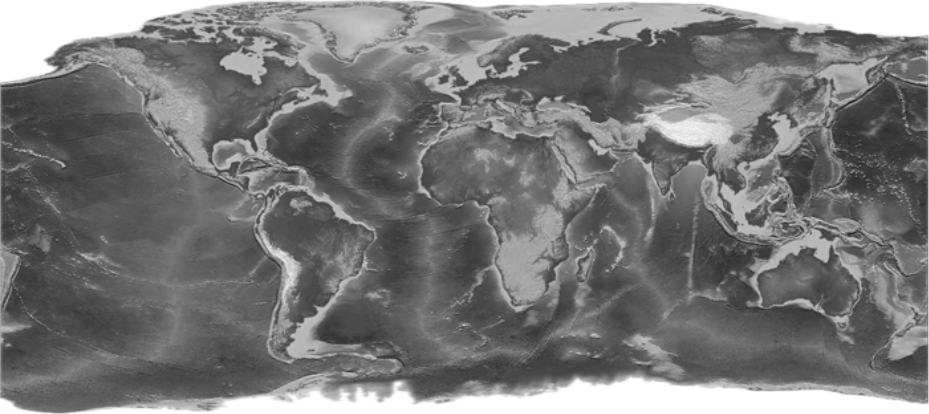
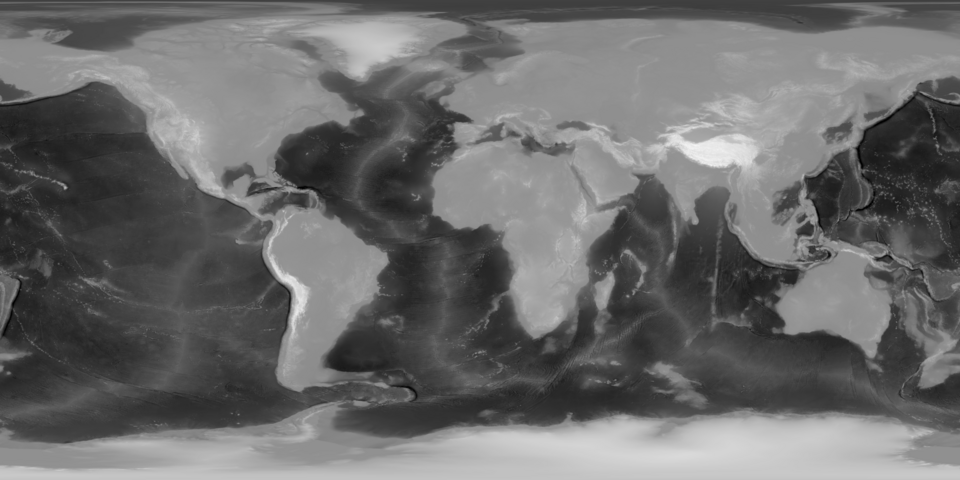
Replace Earth shaded-relief map with a faithful grayscale heightmap
The bundled Earth image now tracks ETOPO1 elevation+bathymetry (rank
correlation 0.995, land/water agreement 94%), so image-mode matching
uses the same lightest=highest / darkest=lowest scale as Moon and Mars.

diff --git a/terrain_bot/static/index.html b/terrain_bot/static/index.html
@@ -377,7 +377,7 @@ function renderValidation() {
         <span>typical error</span><span>${fmtM(c.median_abs_error_m)} median, ${fmtM(c.rmse_m)} RMS, bias ${c.bias_m >= 0 ? "+" : ""}${fmtM(c.bias_m)}</span>
         ${lw}
       </div>`;
-  }).join("") + `<p class="note">Each image is compared pixel by pixel with the measured data. The Earth image is a shaded-relief picture, so brightness isn't height. The Mars image is clipped at both ends, so everything above about +7 km (Olympus and the Tharsis volcanoes) is pure white. That breaks a straight lowest-to-highest scale, but the fitted curve handles it.</p>`;
+  }).join("") + `<p class="note">Each image is compared pixel by pixel with the measured data. Earth and Moon are faithful elevation maps (lightest = highest, darkest = lowest). The Mars image is clipped at both ends, so everything above about +7 km (Olympus and the Tharsis volcanoes) is pure white. That breaks a straight lowest-to-highest scale, but the fitted curve handles it.</p>`;
 }
 
 async function init() {

diff --git a/tests/test_terrain_bot.py b/tests/test_terrain_bot.py
@@ -195,8 +195,11 @@ def test_real_dem_data():
     assert moon.elevation_at(5.41, -158.63) > 10000  # Selenean summit
     assert moon.elevation_at(-70.36, -172.49) < -8000  # Antoniadi crater
 
-    comparison = dem.compare_to_dem(load_heightmap(DATA / "moon_heightmap.png", MOON), moon)
-    assert comparison["spearman"] > 0.95
+    moon_cmp = dem.compare_to_dem(load_heightmap(DATA / "moon_heightmap.png", MOON), moon)
+    assert moon_cmp["spearman"] > 0.95
+    earth_cmp = dem.compare_to_dem(load_heightmap(DATA / "earth_heightmap.png", EARTH), earth)
+    assert earth_cmp["spearman"] > 0.95
+    assert earth_cmp["land_water_agreement"] > 0.9
 
 
 @pytest.mark.skipif(not dem.dem_available("mars"), reason="Mars DEM not downloaded")

diff --git a/terrain_bot/dem.py b/terrain_bot/dem.py
@@ -156,7 +156,7 @@ def fit_image_to_dem(image_hm: Heightmap, dem_hm: Heightmap) -> Heightmap:
     For every brightness level the median measured elevation of the pixels with
     that brightness is taken, then the curve is forced to rise with brightness.
     This undoes clipping and non-linear encodings, but cannot fix an image whose
-    brightness isn't height (shaded relief).
+    brightness is unrelated to height (for example shaded relief).
     """
     rows, cols = np.nonzero(image_hm.valid)
     gray = np.round(image_hm.gray[rows, cols])

diff --git a/README.md b/README.md
@@ -24,15 +24,16 @@ Each calibrated image is compared pixel by pixel with the real data at the same 
 |---|---|---|---|---|
 | Moon | **0.989** | 400 m | **125 m** | faithful elevation map |
 | Mars | **0.980** | 5,533 m | **120 m** | clipped: brightness 255 covers everything above about +7 km and 0 covers everything below about -6.4 km |
-| Earth | 0.670 | 1,517 m | 401 m | shaded relief; land/water agrees on only 72% |
+| Earth | **0.995** | 1,202 m | **54 m** | faithful elevation + bathymetry map; land/water agrees on 94% (98% after fit) |
 
 The Moon image is a faithful elevation map: its lightest pixel is 13 km from the real Selenean
 summit. The Mars image has the right geography but saturates at both ends, so Olympus Mons is as
 white as the Tharsis plains. The straight Olympus-to-Hellas scale therefore reads about 5 km too
-high, but the fitted curve fixes that except in the clipped areas, which the steps flag. The Earth image is a shaded-relief picture, so brightness isn't height. Lowlands like the
-Amazon are as dark as abyssal plains, and continental shelves are as bright as hills. No
-brightness-to-height curve can fix that, which is why measured data is the default. The image's
-bounds (84 N to 77 S) were fitted against ETOPO1 and stored in `data/earth_heightmap.json`.
+high, but the fitted curve fixes that except in the clipped areas, which the steps flag. The Earth
+image is a full-globe grayscale heightmap (lightest = highest, darkest = deepest ocean), so the
+linear Everest-to-Challenger scale already tracks ETOPO1 closely; the fitted curve brings median
+error down to about 54 m. Measured DEMs remain the default for precision at individual peaks and
+trench bottoms.
 
 ## How a match is found (shown by `query`, the chat bot's `steps`, and the web UI)
 
@@ -82,7 +83,8 @@ To share the UI temporarily, run `cloudflared tunnel --url http://localhost:8000
 
 * The quarter-degree DEM cells can't capture single peaks or trench bottoms. Everest's cell reads
   5,380 m and the Mariana cell reads -8,810 m.
-* Image calibration is linear and assumes brightness is proportional to height.
+* Image calibration is linear (or an isotonic fit for `images-fit`) and assumes brightness tracks
+  height. That holds for the bundled Earth and Moon maps; Mars saturates at the extremes.
 
 ## Tests
 
